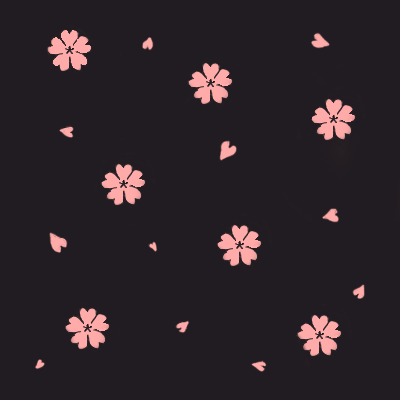
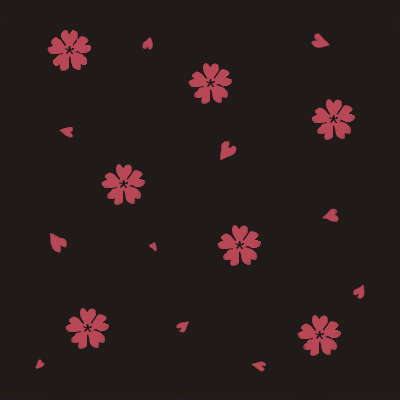
s

diff --git a/index.html b/index.html
@@ -74,8 +74,8 @@
 					<a href="http://www.twitch.tv/">Twitch</a>
 					<a href="http://www.netflix.com/">Netflix</a>
 					<a href="http://www.hulu.com/">Hulu</a>
-					<a href="http://192.168.1.17:3000">Manga</a>
-					<a href="http://192.168.1.17:9999">Video</a>
+					<a href="http://127.0.0.1:3000">Manga</a>
+					<a href="http://127.0.0.1:9999">Video</a>
 				</div>
 				<div class="col" id="col-2">
 					<p>Learning</p>

diff --git a/style.css b/style.css
@@ -3,7 +3,7 @@
     src: url(Roboto-Light.ttf);
 }
 body{
-	background-image: url("allred.png");
+	background-image: url("6.png");
 }
 p{
 	color: #f0893d;
